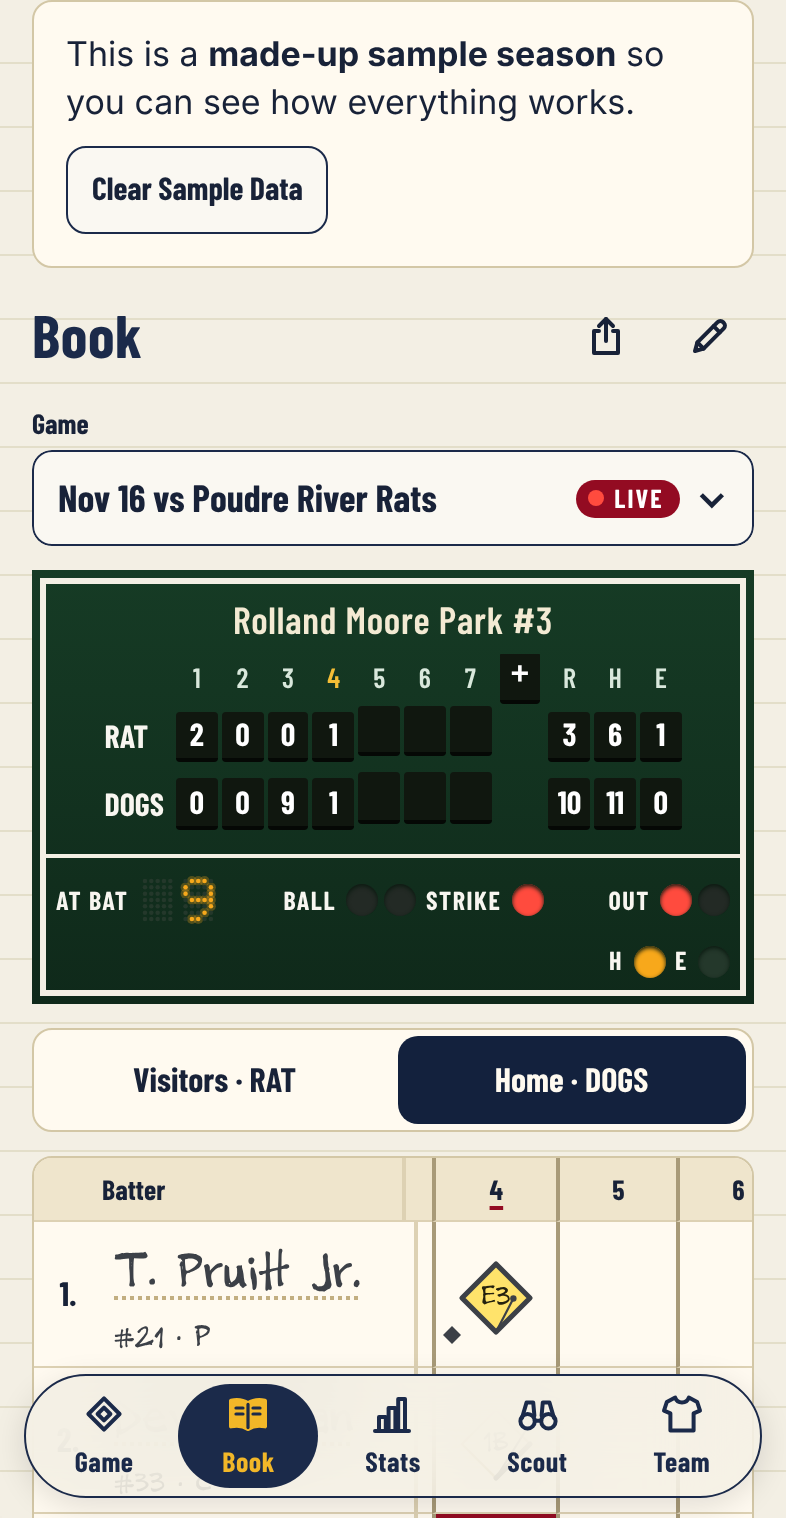
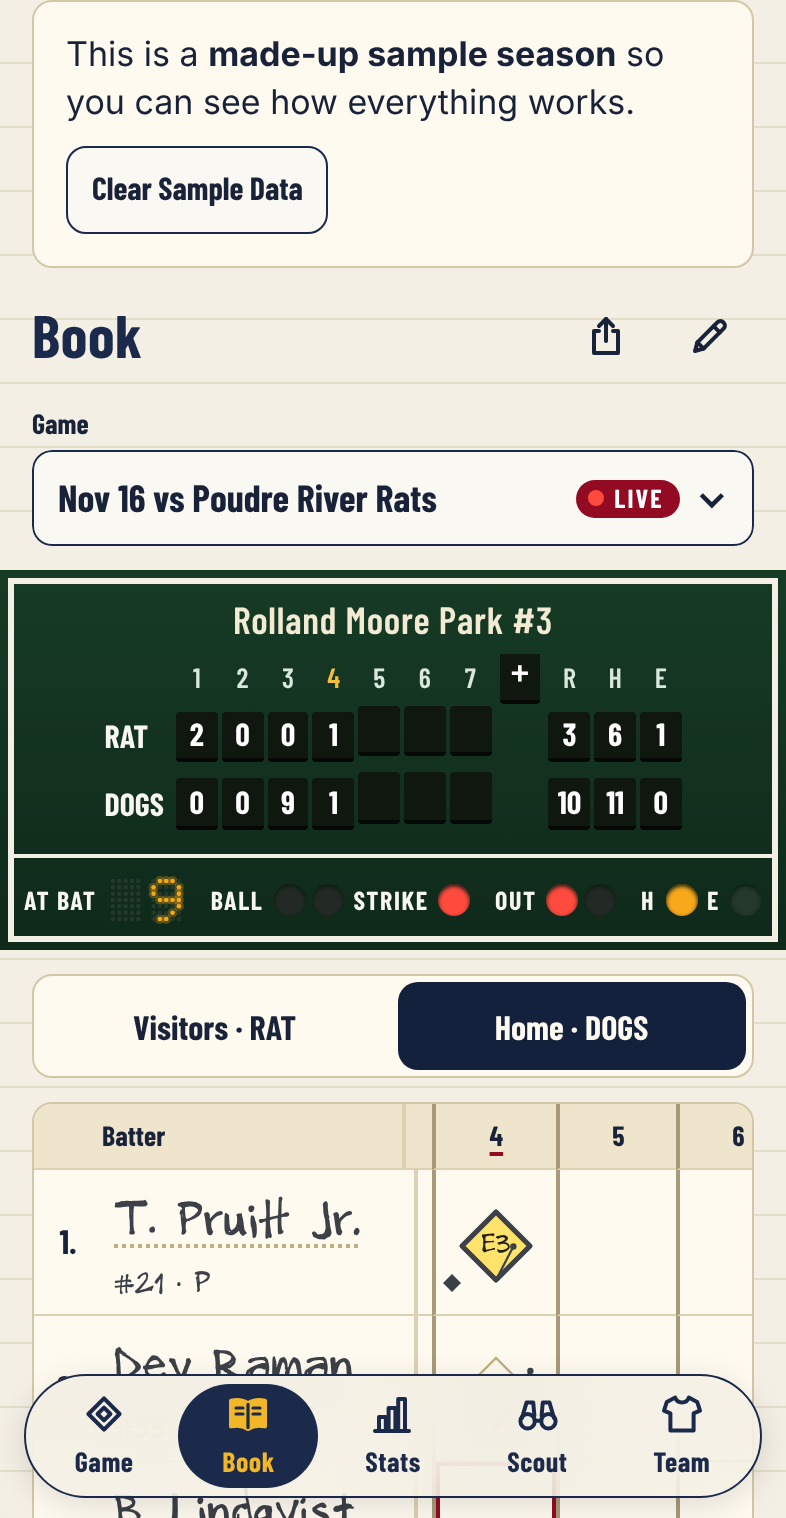
Book: the scoreboard runs edge to edge on iPhone, like the Game board
Claude-Session: https://claude.ai/code/session_019GkS5eEiAzmEB3GrHC5aVf

Changed region(s): [[0.0, 0.3715, 1.0, 0.9289], [0.0611, 0.9908, 0.9466, 1.0]]

diff --git a/tests/e2e/book-stats.spec.ts b/tests/e2e/book-stats.spec.ts
@@ -472,3 +472,12 @@ for (const colorScheme of ['light', 'dark'] as const) {
     }
   });
 }
+
+test('on iPhone the Book’s scoreboard runs edge to edge, like the Game board (Steve, Nov 16)', async ({ page }) => {
+  await sampleBook(page, 393);
+  const book = await page.locator('.bk-board').evaluate((e) => { const r = e.getBoundingClientRect(); return [Math.round(r.left), Math.round(r.right)]; });
+  expect(book).toEqual([0, 393]);
+  await page.getByRole('tab', { name: 'Game' }).click();
+  const game = await page.locator('.gm-board').evaluate((e) => { const r = e.getBoundingClientRect(); return [Math.round(r.left), Math.round(r.right)]; });
+  expect(game).toEqual(book);
+});

diff --git a/src/content/whats-new.ts b/src/content/whats-new.ts
@@ -10,6 +10,11 @@ export interface WhatsNewEntry {
 
 export const WHATS_NEW: WhatsNewEntry[] = [
   {
+    version: '2026.11.16-12',
+    headline: 'Wall to Wall',
+    lines: ['The Book’s scoreboard now stretches the full width of the iPhone, the same as the board on the Game tab.'],
+  },
+  {
     version: '2026.11.16-11',
     headline: 'Fresh Paint on the Boards',
     lines: ['Both scoreboards got a new coat: a cream stripe painted just inside the green edge and clean cream lines between every section, like the board out at the park. The rivets have been pried off for good.'],

diff --git a/src/ui/book/book.css b/src/ui/book/book.css
@@ -141,6 +141,12 @@
   position: relative;
 }
 
+/* iPhone upright: the Book's board runs edge to edge like the Game board, with the same inset
+   painted frame all the way around (Steve, Nov 16). */
+.layout-phone .bk-board {
+  margin-inline: calc(-1 * var(--gutter));
+}
+
 .bk-face {
   position: relative;
   /* The painted-sign frame, the same as the Game board's (Steve, Nov 16). */

diff --git a/src/version.ts b/src/version.ts
@@ -1,2 +1,2 @@
 // Bump on every push that changes the app. Format: YYYY.MM.DD-N
-export const APP_VERSION = '2026.11.16-11';
+export const APP_VERSION = '2026.11.16-12';

diff --git a/docs/MASTER_SPEC.md b/docs/MASTER_SPEC.md
@@ -293,6 +293,7 @@ Top to bottom on iPhone:
 ### 6. Book tab
 
 - **Book screen (Steve's Book handoff, Nov 16, 2026.11.16-9):** the large **Book** title on the left; icon buttons on the right: Share (our tray-and-arrow icon) and a pencil that opens Book Ink as the iPhone's own menu (the Share and Ink pills are gone). The game picker is the iPhone's own menu under a face in the athletic letters (a thin navy border; red only in the badge; entries without the weekday, "Nov 15 vs Poudre River Rats · Live", 2026.11.16-10), with a red **LIVE** badge (a lit count-light lamp on deep red, white words at 9:1) on a game still being scored. The board's count lights (B, S, O) share one size with the Game board's, `--count-lamp` (16 points, smaller only on narrow boards). The page switcher reads **Visitors · RAT** and **Home · DOGS** (2026.11.16-10). The scorecard opens a live game on the current inning, just right of the pinned # and Batter columns; rows are 72 points; the handwritten name is as big as the row allows (24 points) and shrinks to fit one line (never under 12), with the jersey and position on one line under it. Tests: current inning in view, Batter column fixed while scrolling, names fit at 375 and 430 points, and both boards' lights the same size.
+- **Book board edge to edge (Steve, Nov 16, 2026.11.16-12):** on iPhone upright the Book's board runs the full width of the screen like the Game board, with the same inset painted frame all the way around; a test checks both boards span 0 to 393 points.
 - **Board frame (Steve, Nov 16, 2026.11.16-11):** the Game board, the Book board, and the Team tab's mini board share one painted-sign frame: a full-cream 3-point stripe (`--sk-board-frame`) set 4 points inside the green edge (`--sk-board-inset`, so green shows outside it), and full-cream 2-point inner dividers (`--sk-board-rule`) that meet it in clean T- and L-joints; square corners; the same in light and Dark Mode. The grey metal frame, its dark edge, and the rivets are gone. The home run and walk-off flash glows around the new frame. The Book's bottom row keeps AT BAT, BALL, STRIKE, and OUT together; H and E sit beside them, or on their own row under OUT when they can't fit (375 points and narrower). Tests: frame color, width, inset, and no rivets in both appearances; the bottom row at 375 and 430.
 - **Book scoreboard:** a hand-hung field board: the park name painted across the top (scales to fit; long names wrap to two balanced lines; falls back to the home team's name), no stadium lights (removed Nov 16), dark hung plates with white numbers for each inning and R H E, short team names (press and hold for full), **+** to add an inning (Nov 16: a plate the size of an inning's, in the inning row, its 44-point tap area floating over it so the row never grows), bottom row: **AT BAT** to the left of the batter's number in bulbs, BALL and STRIKE lamps (count on only), OUT lamps, and H and E lamps lit when the last play was a hit or error.
 - **Scorebook grid:** one box per at-bat (60 pt), # and Batter columns pinned while innings scroll sideways (no seams leaking through), our team's names in pencil with a dotted "tap me" underline opening the player card, long names shortened to "J. Kowalski". Each box: small diamond showing how far the batter got, the play code, a thin pencil line from home toward where the ball went, outs circled in red pen, runs in yellow highlighter **plus a small solid pencil diamond** (not color alone), TB and IP notes. Current inning and batter underlined. Tap a box to Edit Play. VoiceOver reads each box as a sentence ("Inning 2, single to left field, scored").

diff --git a/CLAUDE.md b/CLAUDE.md
@@ -117,6 +117,7 @@ These rules applied to the first build and still apply.
 
 Newest first. One line each, with the date and where the detail lives. Later sessions follow these unless Steve changes one; a change gets its own new line.
 
+- **Nov 16 (Book board edge to edge):** on iPhone the Book's scoreboard runs edge to edge like the Game board, inset painted frame all around. The stadium lights stay removed and confirmations stay ScoreKept's sheets (earlier Nov 16 calls), unless Steve says otherwise.
 - **Nov 16 (board frame):** every board (Game, Book, the Team mini board) has the painted-sign frame: a full-cream 3-point stripe (`--sk-board-frame`) inset 4 points inside the green edge, full-cream 2-point dividers (`--sk-board-rule`) meeting it in T- and L-joints, square corners, the same in both appearances; the grey metal frame and all rivets are gone; the homer and walk-off flash stays. The Book's AT BAT row keeps AT BAT, BALL, STRIKE, and OUT on one row, and H and E get their own row when they can't fit. Confirmations stay ScoreKept's sheets and two-tap Delete (a web app's native alert shows the site's address).
 - **Nov 16 (Book answers):** color jobs are "gold = now and runners; red = outs and alerts" (house style, tab identities); the team switcher reads "Visitors · RAT" / "Home · DOGS"; the game menu stays the iPhone's own, its closed field has a thin navy border (red only in the LIVE badge), and entries drop the weekday ("Nov 15 vs Poudre River Rats · Live"); iOS draws system pieces and ScoreKept draws the page (house style, Platform). Both boards get the painted-sign frame (3-point cream frame, 2-point cream dividers, no rivets), mockup first.
 - **Nov 16 (Book handoff):** tab identities added to house style; the Book's header is the large title with Share and pencil icons (Ink is the iPhone's own menu), the game picker has the athletic face and a red LIVE badge, the stadium lights (and night-game lights) are gone, + is a plate in the inning row, the count lights share one 16-point size on both boards, and the scorecard opens on the current inning with 72-point rows and names that shrink to fit one line (MASTER_SPEC, Book screen). Held for Steve: the boards' frame (neither has a cream frame today), the color-jobs wording, and the team switcher's caps (BACKLOG).

diff --git a/README.md b/README.md
@@ -80,6 +80,7 @@ The tab bar stays at the bottom of every screen while you scroll, so any tab is 
 - **Settings**, **Discord**: paste your channels' webhook links and tap **Save & Test**. They stay on your iPhone and are never in a backup. **Who's In? Poll** on the Up Next card posts a real Discord poll that closes at game time.
 - In Scorekeeper Mode the Game scoreboard's frame flashes for home runs and walk-offs.
 - The Book opens a live game on the inning being played, with the batter names pinned, as big as the row allows.
+- The Book's scoreboard runs the full width of the iPhone, like the Game board.
 - Every scoreboard wears a painted-sign frame: a cream stripe set inside the green edge and cream lines between its sections.
 
 ## The organ
